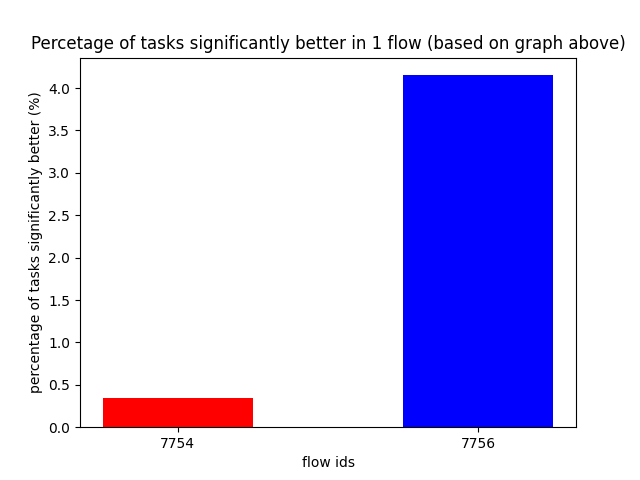
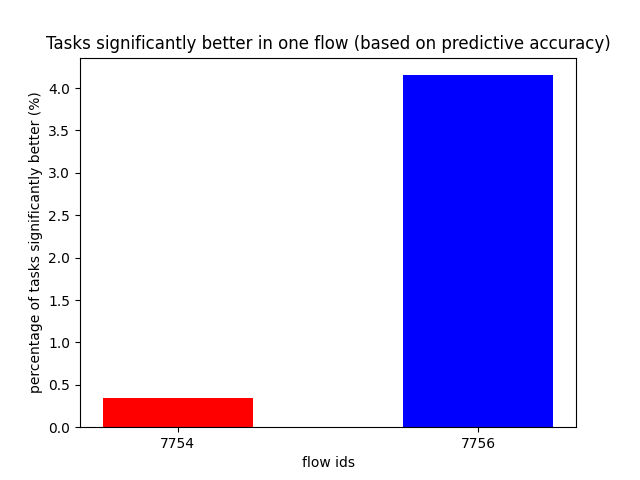
fixed burak taken

Changed region(s): [[0.0312, 0.0625, 0.9688, 0.125]]

diff --git a/OpenML_connection.py b/OpenML_connection.py
@@ -1,4 +1,4 @@
-import sys
+
 import openml
 import numpy as np
 import matplotlib.pyplot as plt
@@ -6,9 +6,12 @@ from sklearn import ensemble, neighbors
 import pandas as pd
 from openml.datasets import edit_dataset, fork_dataset, get_dataset
 from openml.tasks import TaskType
+from openml.study import get_study
 
 def loadResults(study_id, flows_id):
     openml.config.apikey = '6e8a64a5564e97f0f62f5bf6f18a4cd2'
+    #name of study
+    study_name = openml.study.get_study(study_id)
 
     #gets evaluations of our tasks + flows
     def evals_by_id(study_id, flows_id):
@@ -33,16 +36,16 @@ def loadResults(study_id, flows_id):
     plt.bar(order.keys(), order.values(), color=['red', 'blue'], width = 0.5)
     plt.ylabel("percentage of tasks significantly better (%)")
     plt.xlabel("flow ids")
-    plt.title('Percetage of tasks significantly better in 1 flow (based on graph above)')
+    plt.title('Tasks significantly better in one flow (based on predictive accuracy)')
     plt.savefig("barplot.png")
     # TODO: save with descriptive name
 
     #plot2
     fig_splot, ax_splot = plt.subplots()
     ax_splot.plot(range(len(evaluations_id)), sorted(evaluations_id["difference"]))
-    ax_splot.set_title('Difference non-linear and linear classifier')
+    ax_splot.set_title(f"Difference between {study_name.name}")
     ax_splot.set_xlabel("Dataset (sorted)")
-    ax_splot.set_ylabel("difference between linear and non-linear classifier")
+    ax_splot.set_ylabel(f"difference between {study_name.name}")
     ax_splot.grid(linestyle="--", axis="y")
     fig_splot.savefig("splot.png")
     # TODO: save with descriptive name

diff --git a/myapp.py b/myapp.py
@@ -1,11 +1,11 @@
 from scipy.sparse import data
 import streamlit as st
-import locale
 from openml_gatheringruns import *
 from OpenML_connection import *
 from PIL import Image
 import plotly.express as px
 from PIL import Image
+from openml.study import get_study
 
 # Runs the missing tasks of both flows
 # there are some optional prints left in the code that might be handy
@@ -56,6 +56,7 @@ def running_missingtasks(flows_id, missing_tasks1, missing_tasks2):
     st.write(f"{canrun2}")
     
 
+
 # default value = False meaning we do not run missing tasks.
 shouldrun = False
 
@@ -70,10 +71,11 @@ missingtasks2 = []
 #header
 st.title(""" OpenML Mythbusting """)
 st.write(""" This application allows the user to fully experience what a data scientist does.""")
-st.write("""This app uses a algorithms from OpenML to do the following:\n
+st.write("""This app uses algorithms from OpenML to do the following:\n
         - Running flows on tasks
         - Checks for all task if they are already ran on a flow, else runs them
-        - Create multiple plots comparing the flows on the given study""")
+        - Create multiple plots comparing the flows on the given study
+        version 1.0.1""")
 
 st.header("Criterias")
 st.write("Please give an input to all of the following:\n  ")

diff --git a/openml_gatheringruns.py b/openml_gatheringruns.py
@@ -1,4 +1,4 @@
-import sys
+
 import openml
 import numpy as np
 import matplotlib.pyplot as plt
@@ -7,8 +7,6 @@ import pandas as pd
 from openml.datasets import edit_dataset, fork_dataset, get_dataset
 from openml.tasks import TaskType
 from openml.study import get_study
-import webhook_listener
-import time
 
 
 openml.config.apikey = '6e8a64a5564e97f0f62f5bf6f18a4cd2'
